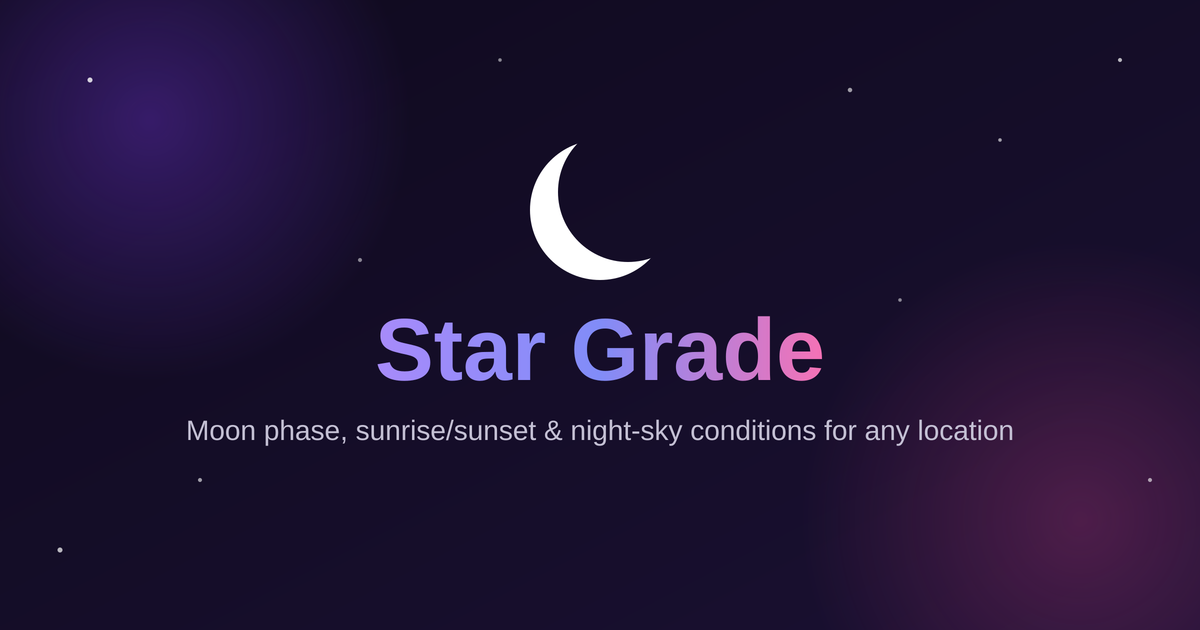
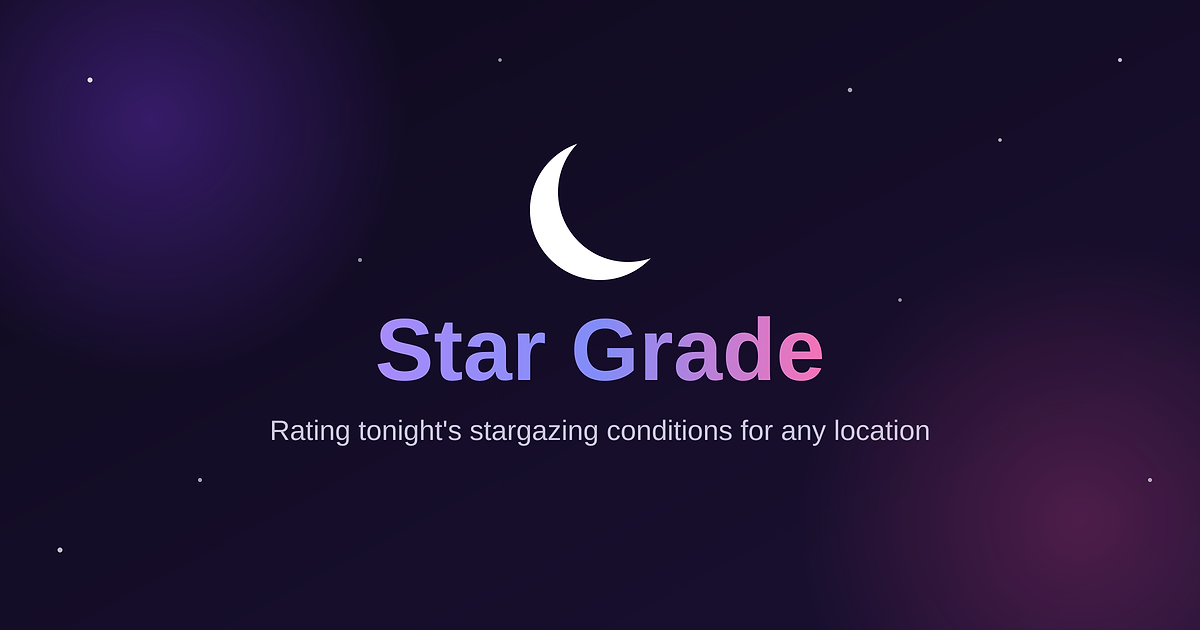
Update metadata descriptions (#188)

Changed region(s): [[0.1542, 0.6635, 0.8633, 0.7238]]

diff --git a/app/layout.tsx b/app/layout.tsx
@@ -23,7 +23,8 @@ export const metadata: Metadata = {
         default: "Star Grade",
         template: "%s | Star Grade",
     },
-    description: "A simple dashboard showing moon phase and sun data based on your location.",
+    description:
+        "Star Grade rates tonight's stargazing conditions using moon phase, sun data and weather for any location.",
     applicationName: "Star Grade",
     alternates: {
         canonical: "/",
@@ -33,13 +34,14 @@ export const metadata: Metadata = {
         url: siteUrl,
         siteName: "Star Grade",
         title: "Star Grade",
-        description: "Moon phase, moonrise/moonset and sun data for any location, in real time.",
+        description:
+            "Star Grade rates tonight's stargazing conditions using moon phase, sun data and weather for any location.",
         images: [
             {
                 url: "/og-image.png",
                 width: 1200,
                 height: 630,
-                alt: "Star Grade — moon phase and sun data",
+                alt: "Star Grade — a stargazing conditions score for any location",
             },
         ],
         locale: "en_GB",
@@ -47,7 +49,8 @@ export const metadata: Metadata = {
     twitter: {
         card: "summary_large_image",
         title: "Star Grade",
-        description: "Moon phase, moonrise/moonset and sun data for any location, in real time.",
+        description:
+            "Star Grade rates tonight's stargazing conditions using moon phase, sun data and weather for any location.",
         images: ["/og-image.png"],
         creator: "@jake_russell123",
     },
@@ -89,7 +92,7 @@ export default function RootLayout({
                             name: "Star Grade",
                             url: siteUrl,
                             description:
-                                "A dashboard showing moon phase, moonrise/moonset and sun data for any searched or geolocated location.",
+                                "Star Grade rates tonight's stargazing conditions using moon phase, sun data and weather for any location.",
                             applicationCategory: "UtilitiesApplication",
                             operatingSystem: "Any",
                             offers: {
